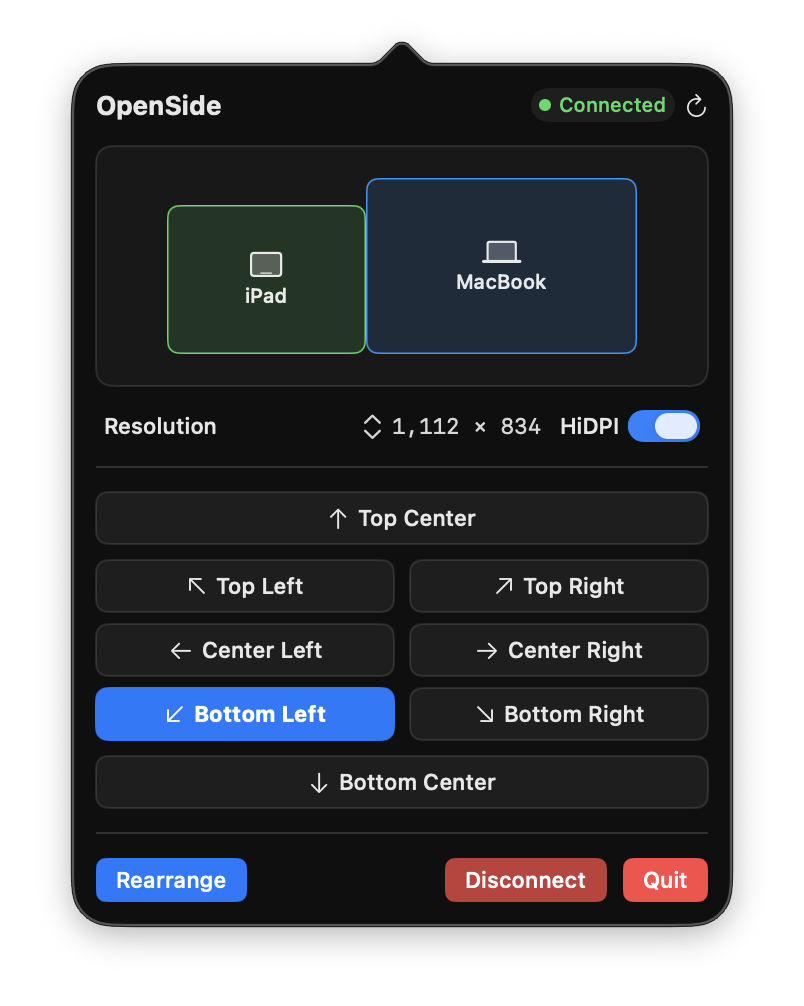
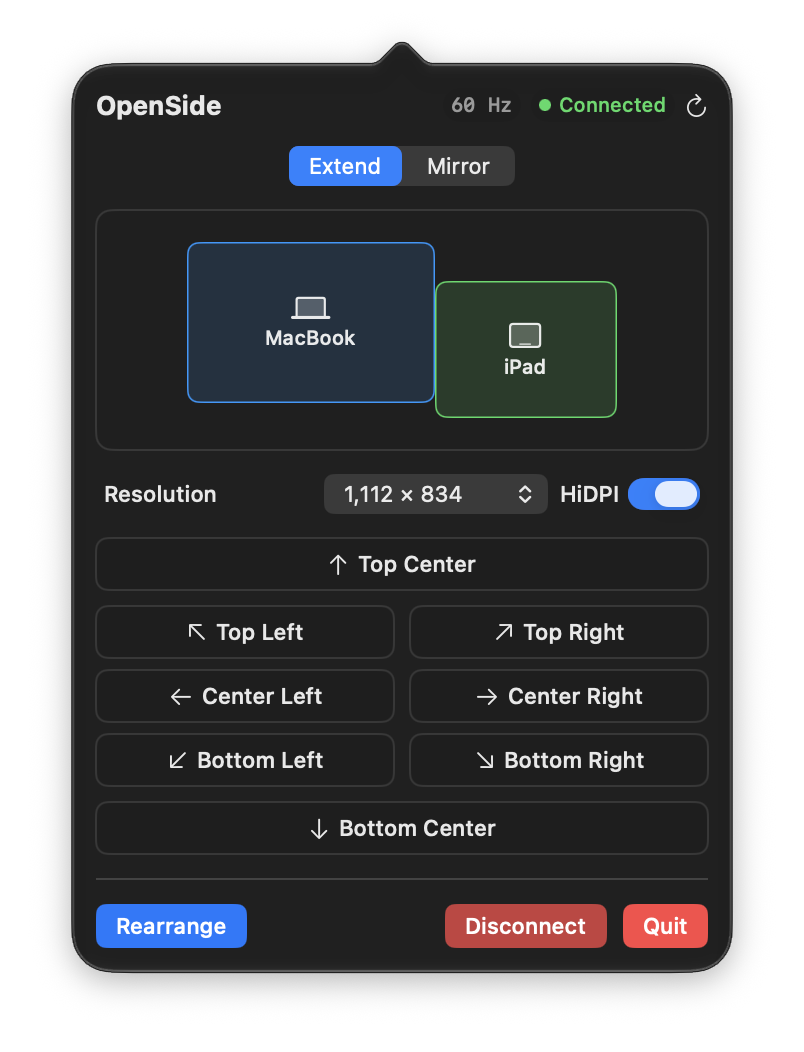
docs(readme): show the popover instead of promising a screenshot
- Replace the placeholder line with the image that was already in the repository but never referenced
- Retake it: the old capture predated the extend/mirror picker by a day and showed a preset lit under a custom arrangement
- Describe in the alt text what the picture actually holds

diff --git a/README.md b/README.md
@@ -7,7 +7,7 @@ Settings and dragging a small blue rectangle. OpenSide puts that one job in the 
 bar: pick a position, change the resolution, connect or disconnect — without leaving
 what you were doing.
 
-> **Screenshot goes here.** Menu bar popover with the display visualiser and preset grid.
+![The OpenSide popover: extend or mirror, the display layout, the resolution row, and the eight arrangement presets](assets/image.png)
 
 ## What it does
 
